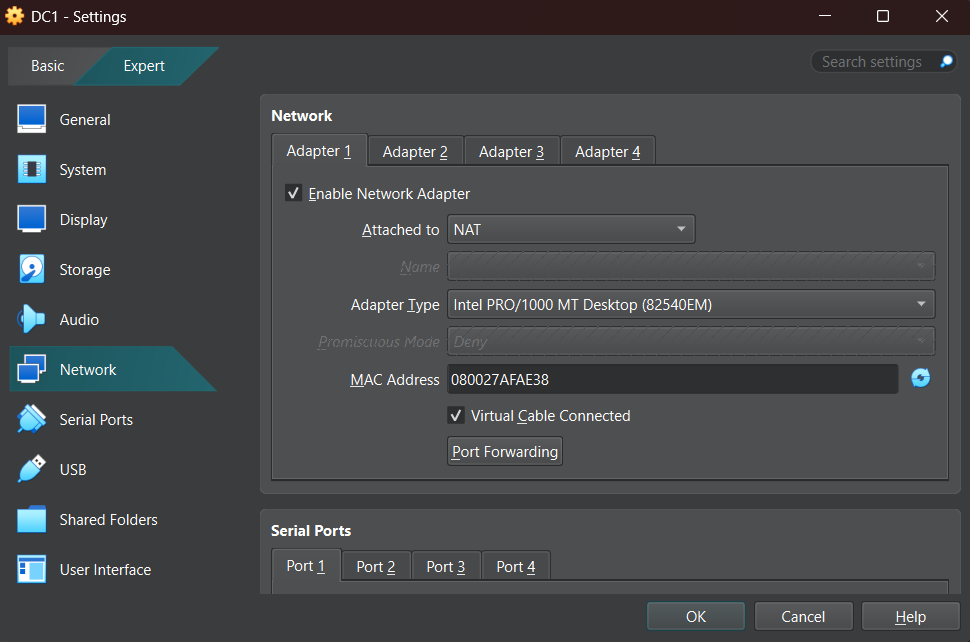
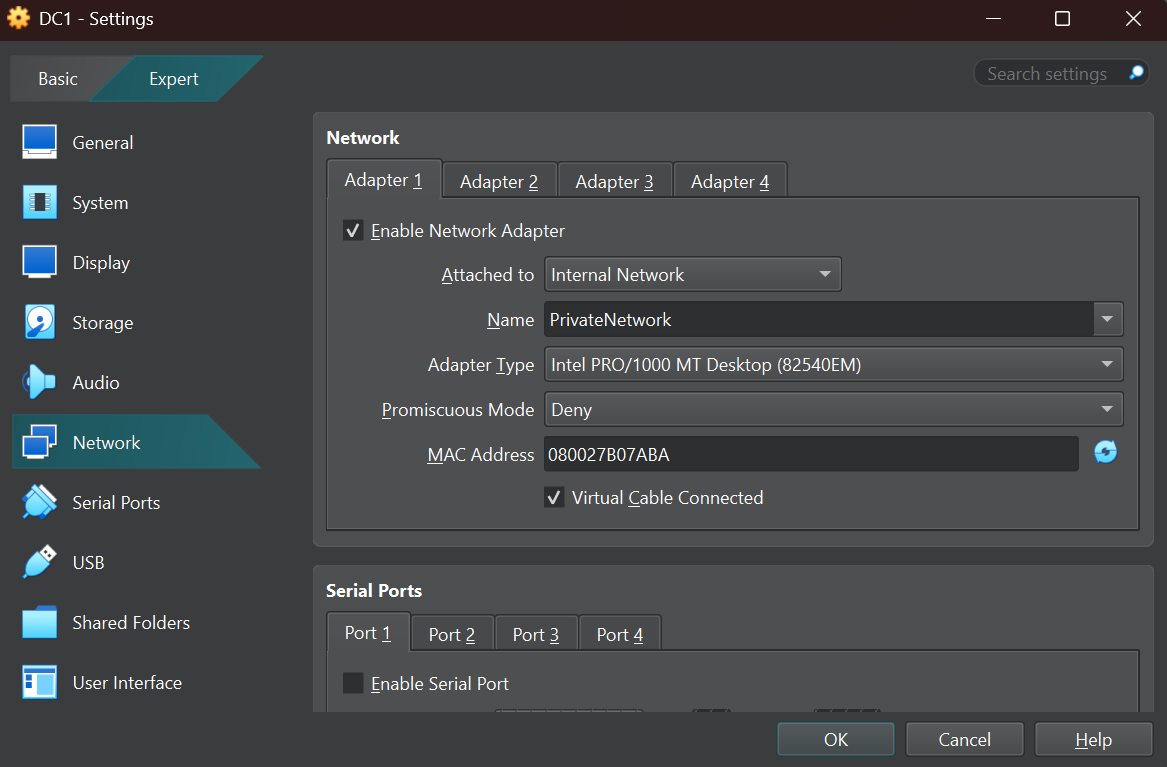
UpdatedFinalChanges(hopefully)

diff --git a/documentation/virtual-network-setup.md b/documentation/virtual-network-setup.md
@@ -19,14 +19,12 @@ For all three VMs, configure the network adapters as such...
 1) Shut down all three VMs
 2) Right click on the VM to access the settings of the VM
 3) Click on Expert and navigate to the Network section
-4) Verify Adapter 1 is set to NAT
-    - This allows connectivity to the Internet
-5) Enable Adapter 2 to Internal Network and input the desired name
-    - This allows private connectivity between the VMs
-6) Repeat steps 1-5 for the other VMs
+4) Enable Adapter 1 to Internal Network and input the desired name
+    - This allows private connectivity between the VMs and no Internet Connectivity
+5) Repeat steps 1-5 for the other VMs
 
 # Test and Troubleshoot Virtual Lab Setup
-Turn on the VMs to test connectivity
+Turn on the VMs to test connectivity and ping!
 
 For my lab setup, I have set static IP addreses for each VM
 
@@ -44,7 +42,7 @@ Default Gateway: 192.168.0.1
 Preferred DNS Server: 192.168.0.20  
 Alternate DNS Server: 192.168.0.10  
 
-Win11Client (Static IP)
+Win11Client (Static IP)  
 IPv4 Address: 192.168.0.2  
 Subnet: 255.255.255.0  
 Default Gateway: 192.168.0.1  
@@ -53,8 +51,8 @@ Alternate DNS Server: 192.168.0.20
 
 Commands to use:
 - ipconfig /all (To view device's network configuration)  
-- ping 8.8.8.8 (Internet Connectivity)  
 - ping x.x.x.x (To other devices)  
+- arp -a (MAC Addresses)
 
 # Issues I Encountered/Troubleshooting
 50 - OS Not Found when I tried to boot the VMs. This occurs if you exit out of the initial install  
@@ -63,7 +61,9 @@ I re-installed the VMs
 
 51 - VDI could not be found and even after trying to boot up with the ISO. Like I said earlier, IT  IS IMPORTANT TO KEEP THE VMS ON AFTER CREATION OF THE VMS. After I initially created the VMs, I   decided to shut down the VM when it was first created. The next day the error appeared. To fix   this, I re-installed the VMs
 
-52 - Ping Tests Unsuccessful. After configuring the IP addresses, I tried pinging from each device to ensure there is   connectivity. I kept getting "Destination Host Unreachable." First thing I checked was the network adapters for each VM, ensuring that the same Internal network was present in each one. The last thing that I checked was the Windows Firewall. By default, Windows disables inbound ICMP traffic.
+52 - Ping Tests Unsuccessful. After configuring the IP addresses, I tried pinging from each device to ensure there is   connectivity. I kept getting "Destination Host Unreachable." First thing I checked was the network adapters for each VM, ensuring that the same Internal network was present in each one. The last thing that I checked was the Windows Firewall. 
+
+!!!! BY DEFAULT, WINDOWS DISABLES ICMP TRAFFIC !!!!
 
 In the VMs, search for "Windows Defender Firewall with Advanced Security"  
 In the Inbound Rules, look for "File and Printer Sharing(Echo Request - ICMPv4-In)" and enable it
